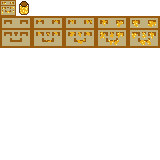
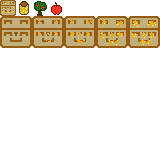
Fruit Tree (Apple Tree) added, similar mechanics like Beehive
Their sprites and FruitTree.cs script added, SaveManager.cs and SaveData.cs edited & some testing.

diff --git a/scripts/Player.cs b/scripts/Player.cs
@@ -12,13 +12,14 @@ public partial class Player : CharacterBody2D
 	[Export] public float Speed = 100.0f;
 	[Export] public float MaxInteractionDistance = 60.0f;
 	[Export] public TileMapLayer WaterLayer;
-	[Export] public int _beehivePrice = 10000;
+	[Export] private int _beehivePrice = 10000;
+	[Export] private int _fruitTreePrice = 5000;
 	
 	// GENERAL
 	private AnimationPlayer _animPlayer;
 	private int _money = 0;
 	private Label _moneyLabel;
-	private string _currentToolSuffix = ""; 
+	public string _currentToolSuffix = ""; 
 	private bool _isActing = false;
 	private Vector2 _lookDirection = Vector2.Down;
 	private string _lastDirStr = "down";
@@ -32,6 +33,9 @@ public partial class Player : CharacterBody2D
 	private bool _canPlaceNow = false;
 	private BuildMenu _buildMenu;
 	private Area2D _interactionArea;
+	private int _currentPrice;
+	private bool _isPlacingBeehive = false;
+	private bool _isPlacingTree = false;
 
 	public override void _Ready()
 	{
@@ -43,7 +47,7 @@ public partial class Player : CharacterBody2D
 		_buildMenu = GetTree().CurrentScene.FindChild("BuildMenu", true, false) as BuildMenu;
 		if (_buildMenu != null)
 		{
-			_buildMenu.BuildingSelected += StartGhostPlacement;
+			_buildMenu.BuildingSelected += (scenePath, price) => StartGhostPlacement(scenePath, price);
 		}
 
 		if (_animPlayer != null)
@@ -69,29 +73,23 @@ public partial class Player : CharacterBody2D
 	{
 		if (_isPlacing && _ghostBuilding != null)
 		{
-			_ghostBuilding.GlobalPosition = GetGlobalMousePosition();
-			
 			Vector2 mousePos = GetGlobalMousePosition();
 			int gridSize = 16;
+			
+			// Výpočet mřížky
 			float snappedX = Mathf.Floor(mousePos.X / gridSize) * gridSize;
 			float snappedY = Mathf.Floor(mousePos.Y / gridSize) * gridSize;
 			_ghostBuilding.GlobalPosition = new Vector2(snappedX, snappedY);
-			_ghostBuilding.GlobalPosition = new Vector2(snappedX, snappedY);
-			_ghostBuilding.Modulate = (Money >= _beehivePrice) ? new Color(1, 1, 1, 0.5f) : new Color(1, 0, 0, 0.5f);
+
+			int currentPrice = GetCurrentBuildingPrice();
+			_ghostBuilding.Modulate = (Money >= currentPrice) ? new Color(1, 1, 1, 0.5f) : new Color(1, 0, 0, 0.5f);
 
 			if (!_canPlaceNow && !Input.IsActionPressed("action_use"))
-			{
 				_canPlaceNow = true;
-			}
-			
 			if (_canPlaceNow && Input.IsActionJustPressed("action_use"))
-			{
 				PlaceRealBuilding();
-			}
 			else if (Input.IsActionJustPressed("ui_cancel"))
-			{
 				CancelPlacement();
-			}
 			
 			Velocity = Vector2.Zero;
 			MoveAndSlide();
@@ -164,7 +162,7 @@ public partial class Player : CharacterBody2D
 			{
 				PlayToolAnimation();
 				
-				if (_currentToolSuffix == "_pickaxe")
+				if (_currentToolSuffix == "_pickaxe" || _currentToolSuffix == "_axe")
 				{
 					HandleInteraction(true); 
 				}
@@ -177,34 +175,31 @@ public partial class Player : CharacterBody2D
 		if (_interactionArea == null) return;
 
 		var targets = _interactionArea.GetOverlappingBodies();
-		Beehive bestTarget = null;
+		IInteractable bestTarget = null; // Používáme Interface!
 		float minMouseDist = float.MaxValue;
 		Vector2 mousePos = GetGlobalMousePosition();
 
 		foreach (var body in targets)
 		{
-			if (body is Beehive beehive)
+			// Ptáme se: "Implementuje tento objekt rozhraní IInteractable?"
+			if (body is IInteractable interactable)
 			{
-				// Kontrola, jestli není úl úplně mimo dosah hráče
-				if (GlobalPosition.DistanceTo(beehive.GlobalPosition) > MaxInteractionDistance)
+				if (GlobalPosition.DistanceTo(interactable.GlobalPosition) > MaxInteractionDistance)
 					continue;
 
-				// Výpočet vzdálenosti od myši k úlu
-				float distToMouse = mousePos.DistanceTo(beehive.GlobalPosition);
-				
+				float distToMouse = mousePos.DistanceTo(interactable.GlobalPosition);
 				if (distToMouse < minMouseDist)
 				{
 					minMouseDist = distToMouse;
-					bestTarget = beehive;
+					bestTarget = interactable;
 				}
 			}
 		}
 
-		// Teď interakci provedeme jen JEDNOU pro ten nejvhodnější úl
 		if (bestTarget != null)
 		{
 			if (isAttack) bestTarget.Destroy(this);
-			else bestTarget.HarvestHoney(this);
+			else bestTarget.Interact(this); // Volá správnou metodu podle typu objektu
 		}
 	}
 
@@ -219,10 +214,15 @@ public partial class Player : CharacterBody2D
 
 	// --- SYSTÉM STAVĚNÍ ---
 
-	private void StartGhostPlacement(string scenePath)
+	private void StartGhostPlacement(string scenePath, int price)
 	{
 		if (_ghostBuilding != null) _ghostBuilding.QueueFree();
 		Input.MouseMode = Input.MouseModeEnum.Visible;
+
+		// Nastavení ceny a typu stavby
+		_currentPrice = price;
+		_isPlacingBeehive = scenePath.Contains("Beehive");
+		_isPlacingTree = scenePath.Contains("FruitTree");
 
 		_buildingToPlace = GD.Load<PackedScene>(scenePath);
 		_ghostBuilding = _buildingToPlace.Instantiate<Node2D>();
@@ -246,9 +246,9 @@ public partial class Player : CharacterBody2D
 	private void PlaceRealBuilding()
 	{
 		if (_buildingToPlace == null) return;
-		if (Money >= _beehivePrice)
+		if (Money >= _currentPrice)
 		{
-			RemoveMoney(_beehivePrice);
+			RemoveMoney(_currentPrice);
 			var realBuilding = _buildingToPlace.Instantiate<Node2D>();
 			GetTree().CurrentScene.AddChild(realBuilding);
 			realBuilding.GlobalPosition = _ghostBuilding.GlobalPosition;
@@ -336,4 +336,12 @@ public partial class Player : CharacterBody2D
 		if (Mathf.Abs(dir.X) > Mathf.Abs(dir.Y)) return dir.X > 0 ? "right" : "left";
 		return dir.Y > 0 ? "down" : "up";
 	}
+	
+	private int GetCurrentBuildingPrice()
+	{
+		if (_isPlacingBeehive) return _beehivePrice;
+		if (_isPlacingTree) return _fruitTreePrice;
+		return 0;
+	}
+	
 }

diff --git a/scripts/SaveMechanism/SaveManager.cs b/scripts/SaveMechanism/SaveManager.cs
@@ -86,6 +86,21 @@ public partial class SaveManager : Node
 				});
 			}
 		}
+		
+		data.FruitTrees.Clear(); // Přidejte tento List do třídy SaveData
+		var treeNodes = GetTree().GetNodesInGroup("trees");
+		GD.Print($"Nalezeno stromů k uložení: {treeNodes.Count}");
+
+		foreach (Node node in treeNodes)
+		{
+			if (node is FruitTree tree) // Předpokládám název třídy FruitTree
+			{
+				data.FruitTrees.Add(new FruitTreesSaveData {
+					Pos = tree.GlobalPosition,
+					CurrentStage = tree.GetCurrentStage()
+				});
+			}
+		}
 
 		// Uložení do JSONu (nezapomeň na ty Options, jinak Vector2I nebude fungovat!)
 		var options = new JsonSerializerOptions { IncludeFields = true, WriteIndented = true };
@@ -124,21 +139,26 @@ public partial class SaveManager : Node
 		}
 		
 		foreach (Node node in GetTree().GetNodesInGroup("beehives")) node.QueueFree();
-		PackedScene beehiveScene = GD.Load<PackedScene>("res://scenes/Beehive.tscn");
-		
+		PackedScene beehiveScene = GD.Load<PackedScene>("res://scenes/PlaceableObjects/Beehive.tscn");
 		foreach (var bData in data.Beehives)
 		{
 			var newBeehive = beehiveScene.Instantiate<Beehive>();
-			// Je důležité přidat ho do scény dřív, než začneš nastavovat věci z _Ready
 			GetTree().CurrentScene.AddChild(newBeehive); 
-			
 			newBeehive.GlobalPosition = bData.Pos;
-			// Metoda v Beehive.cs, která nastaví stage a aktualizuje sprite
 			newBeehive.LoadFromSave(bData.CurrentStage); 
+		}
+		
+		PackedScene treeScene = GD.Load<PackedScene>("res://scenes/PlaceableObjects/FruitTree.tscn");
+		foreach (var tData in data.FruitTrees)
+		{
+			var newTree = treeScene.Instantiate<FruitTree>();
+			GetTree().CurrentScene.AddChild(newTree); 
+			newTree.GlobalPosition = tData.Pos;
+			newTree.LoadFromSave(tData.CurrentStage); 
 		}
 
 
-		GD.Print($"ÚSPĚCH: Načteno {data.FarmTiles.Count} políček a {data.Beehives.Count} úlů.");
+		GD.Print($"ÚSPĚCH: Načteno {data.FarmTiles.Count} políček, {data.Beehives.Count} úlů a {data.FruitTrees.Count} stromů.");
 		return data;
 	}
 

diff --git a/scripts/FruitTree.cs b/scripts/FruitTree.cs
@@ -1,15 +1,15 @@
 using Godot;
 using System;
 
-public partial class Beehive : StaticBody2D, IInteractable
+public partial class FruitTree : StaticBody2D, IInteractable
 {
-	[Export] public int MaxStages = 4;
+	[Export] public int MaxStages = 3;
 	
 	private Sprite2D _sprite;
 	private Timer _growthTimer;
 	private Sprite2D _collectIcon;
 	private int _currentStage = 0;
-	private int _startFrame = 1; // Frame, kde začínají včely
+	private int _startFrame = 1;
 
 	public override void _Ready()
 	{
@@ -32,17 +32,17 @@ public partial class Beehive : StaticBody2D, IInteractable
 
 			if (_currentStage == MaxStages - 1)
 			{
-				_collectIcon.Visible = true; // Med je hotov, ukážeme ikonu
+				_collectIcon.Visible = true; // Ovoce je připravené ke sklizni, ukážeme ikonu
 				_growthTimer.Stop();
 			}
 		}
 	}
 
-	public void HarvestHoney(Player player)
+	public void CollectFruit(Player player)
 	{
 		if (_currentStage == MaxStages - 1)
 		{
-			GD.Print("Med vybrán!");
+			GD.Print("Ovoce sebráno!");
 			player.AddMoney(100);
 			_currentStage = 0;
 			_sprite.Frame = _startFrame;
@@ -51,19 +51,26 @@ public partial class Beehive : StaticBody2D, IInteractable
 		}
 	}
 	
-	public void Interact(Player player) => HarvestHoney(player);
+	public void Interact(Player player) => CollectFruit(player);
 
 	public void Destroy(Player player)
 	{
-		GD.Print("Úl zničen!");
-		player.AddMoney(5000);
-		QueueFree();
+		if (player._currentToolSuffix == "_axe")
+		{
+			GD.Print("Strom pokácen!");
+			player.AddMoney(1250);
+			QueueFree();
+		}
+		else{
+			GD.Print("Na strom potřebuješ sekeru");
+		}
 	}
 	
 	public Godot.Collections.Dictionary<string, Variant> Save()
 	{
 		return new Godot.Collections.Dictionary<string, Variant>()
 		{
+			{ "Type", "FruitTree" },
 			{ "PosX", GlobalPosition.X },
 			{ "PosY", GlobalPosition.Y },
 			{ "CurrentStage", _currentStage }

diff --git a/scripts/BuildingScripts/BuildMenu.cs b/scripts/BuildingScripts/BuildMenu.cs
@@ -4,7 +4,10 @@ using System;
 public partial class BuildMenu : CanvasLayer
 {
 	// Signál, který vyšleme do světa, když hráč klikne na budovu
-	[Signal] public delegate void BuildingSelectedEventHandler(string scenePath);
+	[Signal] public delegate void BuildingSelectedEventHandler(string scenePath, int price);
+	
+	private int _beehivePrice = 500;
+	private int _fruitTreePrice = 1500;
 
 	public override void _Ready()
 	{
@@ -34,10 +37,18 @@ public partial class BuildMenu : CanvasLayer
 		// Nejdříve uvolníme myš, aby s ní šlo hýbat ve světě
 		Input.MouseMode = Input.MouseModeEnum.Visible; 
 		
-		EmitSignal(SignalName.BuildingSelected, "res://scenes/Beehive.tscn"); 
+		EmitSignal(SignalName.BuildingSelected, "res://scenes/PlaceableObjects/Beehive.tscn", _beehivePrice); 
 		
 		// ToggleMenu už v sobě má logiku pro Visible/Captured, 
 		// tak si pohlídej, aby se po zavření menu myš nezasekla.
+		ToggleMenu();
+	}
+	
+	public void OnFruitTreeButtonPressed()
+	{
+		GD.Print("Tlačítko stisknuto!");
+		Input.MouseMode = Input.MouseModeEnum.Visible;
+		EmitSignal(SignalName.BuildingSelected, "res://scenes/PlaceableObjects/FruitTree.tscn", _fruitTreePrice);
 		ToggleMenu();
 	}
 }

diff --git a/scripts/SaveMechanism/SaveData.cs b/scripts/SaveMechanism/SaveData.cs
@@ -10,10 +10,17 @@ public class SaveData
 	public int Money { get; set; }
 	public Vector2 PlayerPosition { get; set; }
 	public List<BeehiveSaveData> Beehives { get; set; } = new List<BeehiveSaveData>();
+	public List<FruitTreesSaveData> FruitTrees { get; set; } = new List<FruitTreesSaveData>();
 }
 
 public class BeehiveSaveData
 {
 	public Vector2 Pos { get; set; }
+	public int CurrentStage { get; set; }
+}
+
+public class FruitTreesSaveData
+{
+	public Vector2 Pos {get; set; }
 	public int CurrentStage { get; set; }
 }

diff --git a/scripts/IInteractable.cs b/scripts/IInteractable.cs
@@ -1,0 +1,9 @@
+using Godot;
+using System;
+
+public interface IInteractable
+{
+	void Interact(Player player);
+	void Destroy(Player player);
+	Vector2 GlobalPosition { get; }
+}
